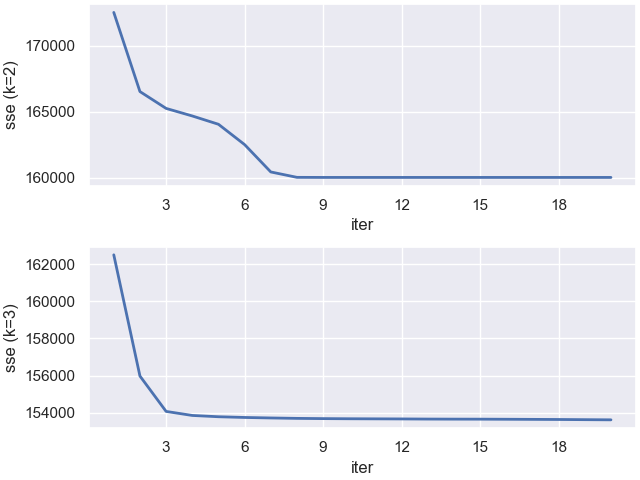
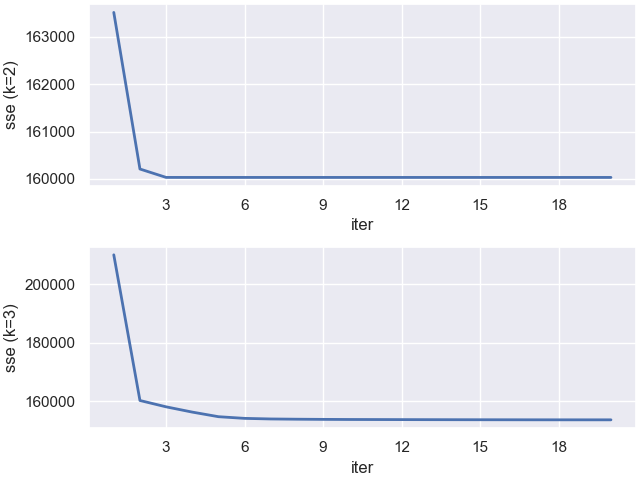
Added graphs for kmeans done with code for part 1.

diff --git a/src/main.py b/src/main.py
@@ -84,6 +84,28 @@ def visualize(x_train, y_train):
     ##################################
 
 
+def apply_kmeans_avg(x_train, y_train, kmeans_max_iter, k, iterations=5):
+    train_sses_vs_iter = None
+    sse = 0
+    purity = 0
+    print("")
+    for step in range(iterations):
+        print("On step ", step + 1, "of", iterations, "for k =", k)
+        kmeans = KMeans(k, kmeans_max_iter)
+        sse_vs_iter_loop = np.array(kmeans.fit(x_train))
+
+        # initialize the train sse array
+        if train_sses_vs_iter is None:
+            train_sses_vs_iter = np.zeros(len(sse_vs_iter_loop))
+
+        train_sses_vs_iter += sse_vs_iter_loop
+
+        purity += kmeans.get_purity(x_train, y_train)
+        sse += sse_vs_iter_loop.min()
+
+    return (train_sses_vs_iter/iterations).tolist(), sse/iterations, purity/iterations
+
+
 def apply_kmeans(do_pca, x_train, y_train, kmeans_max_iter, kmeans_max_k):
     print('kmeans\n')
     train_sses_vs_iter = []
@@ -94,22 +116,49 @@ def apply_kmeans(do_pca, x_train, y_train, kmeans_max_iter, kmeans_max_k):
     #      YOUR CODE GOES HERE       #
     ##################################
 
-    start = time.time()
-    for k in range(1, kmeans_max_k):
-        print("On step k =", k, "of", kmeans_max_k, "\telapsed time: %.2f" % (time.time() - start), "s")
-        kmeans = KMeans(k, kmeans_max_iter)
-        sse_vs_iter = kmeans.fit(x_train)
-        train_sses_vs_iter.append(sse_vs_iter)
-        train_purities_vs_k.append(kmeans.get_purity(x_train, y_train))
-        train_sses_vs_k.append(min(sse_vs_iter))
+    ###################################################################
+    # Plot the average (over 5 runs) of SSE versus iterations for k = 6
+    ###################################################################
 
-    plot_y_vs_x_list(train_sses_vs_iter, x_label='iter', y_label='sse',
-                     save_path='plot_sse_vs_k_subplots_%d'%do_pca)
+    train_sses_vs_iter, _, _ = apply_kmeans_avg(x_train, y_train, kmeans_max_iter, k=6, iterations=5)
+    plot_y_vs_x(train_sses_vs_iter, x_label='iterations', y_label='sse',
+                save_path='plot_sse_vs_iter_k_6_%d' % do_pca)
+
+    ###################################################################
+    # Plot the average (over 5 runs) of the SSE versus k for k = 1...10
+    # Plot the average (over 5 runs) of  purity versus k for k = 1...10
+    ###################################################################
+
+    for k in range(1, 10):
+        _, sse, purity = apply_kmeans_avg(x_train, y_train, kmeans_max_iter, k=k, iterations=5)
+        train_sses_vs_k.append(sse)
+        train_purities_vs_k.append(purity)
+
     plot_y_vs_x(train_sses_vs_k, x_label='k', y_label='sse',
-                save_path='plot_sse_vs_k_%d'%do_pca)
-    plot_y_vs_x(train_purities_vs_k, x_label='k', y_label='purities',
-                save_path='plot_purity_vs_k_%d'%do_pca)
+                save_path='plot_sse_vs_k_avg_%d' % do_pca)
 
+    plot_y_vs_x(train_purities_vs_k, x_label='k', y_label='purity',
+                save_path='plot_purity_vs_k_avg_%d' % do_pca)
+
+
+    # train_sses_vs_iter = []
+    # train_sses_vs_k = []
+    # train_purities_vs_k = []
+    # start = time.time()
+    # for k in range(1, kmeans_max_k):
+    #     print("On step k =", k, "of", kmeans_max_k, "\telapsed time: %.2f" % (time.time() - start), "s")
+    #     kmeans = KMeans(k, kmeans_max_iter)
+    #     sse_vs_iter = kmeans.fit(x_train)
+    #     train_sses_vs_iter.append(sse_vs_iter)
+    #     train_purities_vs_k.append(kmeans.get_purity(x_train, y_train))
+    #     train_sses_vs_k.append(min(sse_vs_iter))
+    #
+    # plot_y_vs_x_list(train_sses_vs_iter, x_label='iter', y_label='sse',
+    #                  save_path='plot_sse_vs_k_subplots_%d' % do_pca)
+    # plot_y_vs_x(train_sses_vs_k, x_label='k', y_label='sse',
+    #             save_path='plot_sse_vs_k_%d' % do_pca)
+    # plot_y_vs_x(train_purities_vs_k, x_label='k', y_label='purities',
+    #             save_path='plot_purity_vs_k_%d' % do_pca)
 
 
 if __name__ == '__main__':
